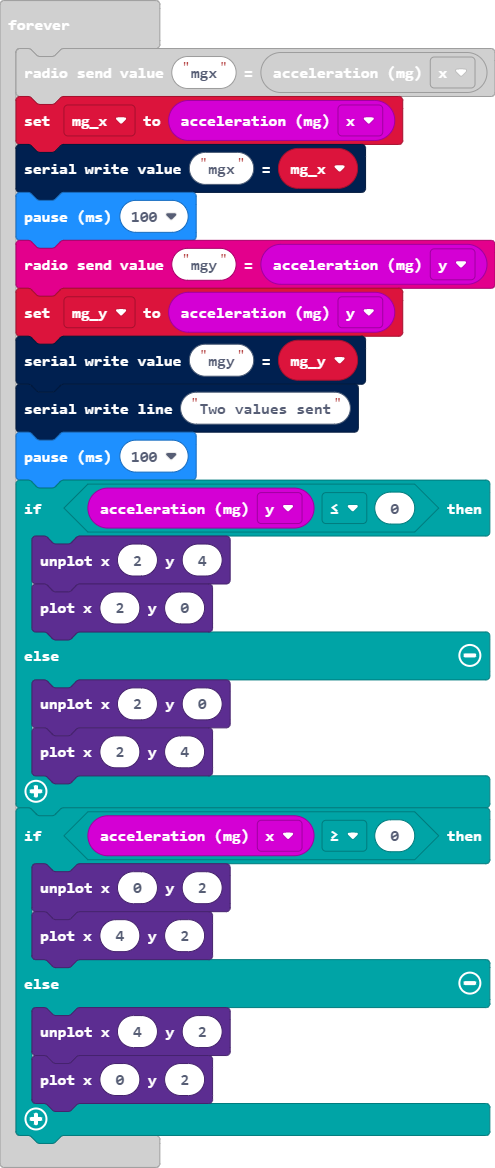
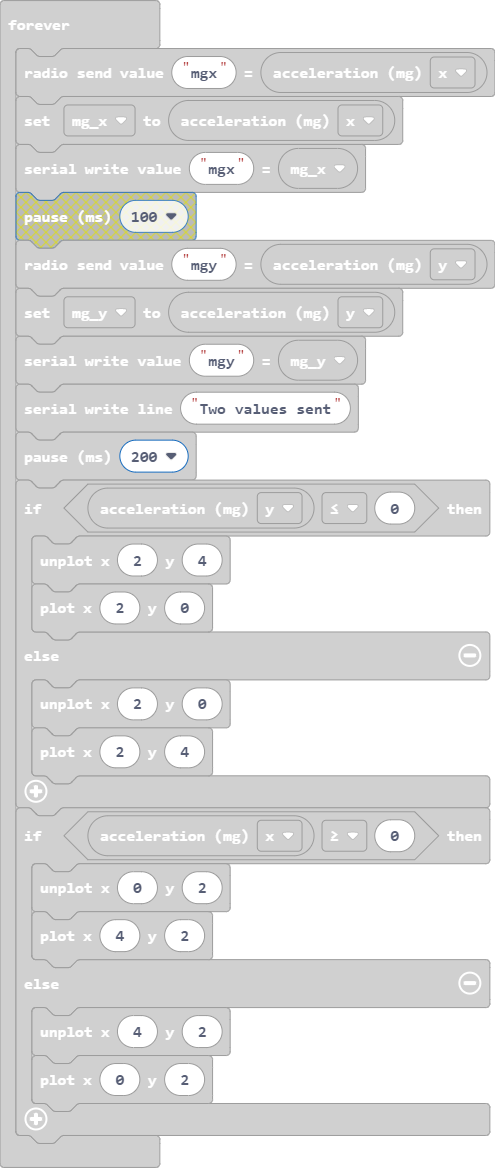
published v1

diff --git a/main.ts b/main.ts
@@ -5,12 +5,11 @@ basic.forever(function () {
     radio.sendValue("mgx", input.acceleration(Dimension.X))
     mg_x = input.acceleration(Dimension.X)
     serial.writeValue("mgx", mg_x)
-    basic.pause(100)
     radio.sendValue("mgy", input.acceleration(Dimension.Y))
     mg_y = input.acceleration(Dimension.Y)
     serial.writeValue("mgy", mg_y)
     serial.writeLine("Two values sent")
-    basic.pause(100)
+    basic.pause(200)
     if (input.acceleration(Dimension.Y) <= 0) {
         led.unplot(2, 4)
         led.plot(2, 0)
